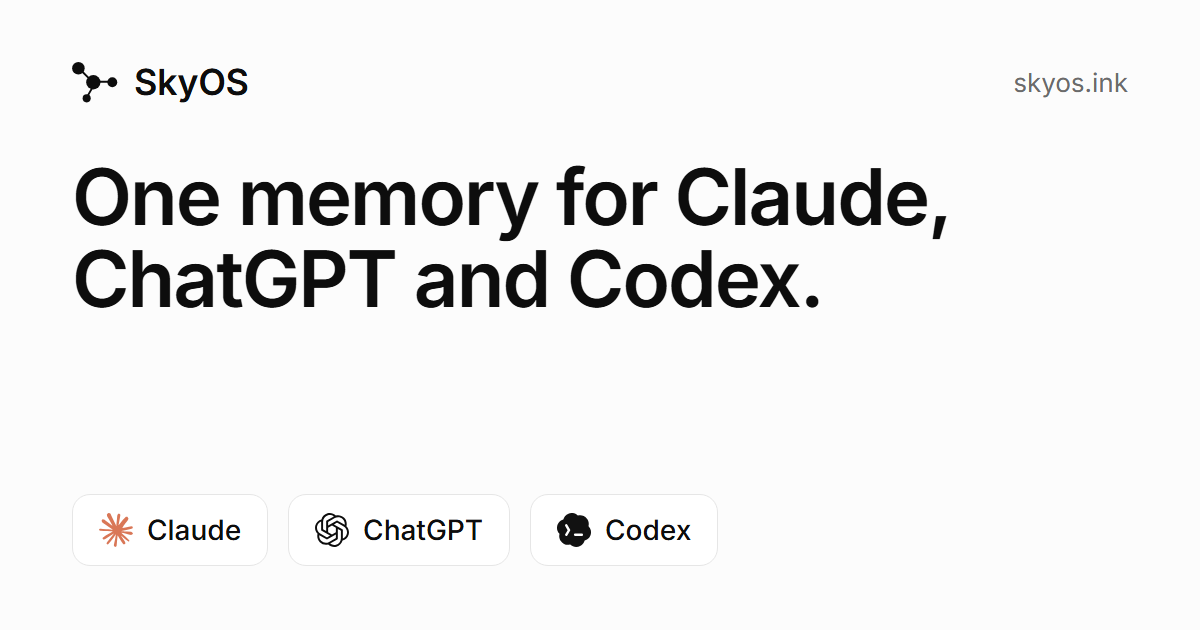
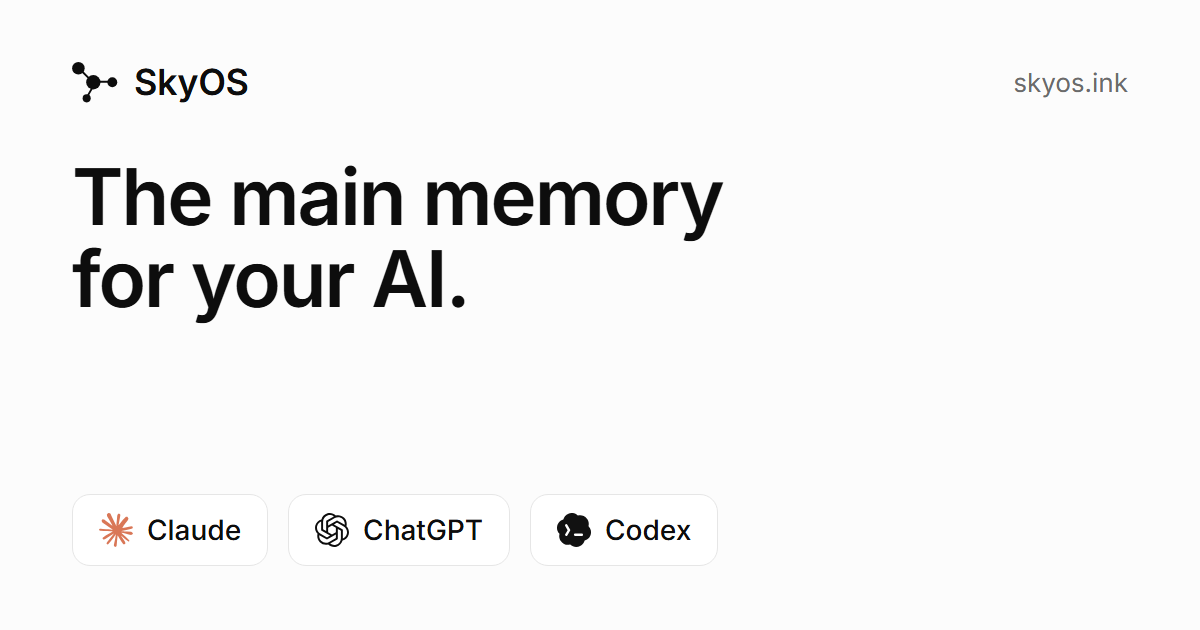
Landing: the main memory for your AI
The pitch was a memory shared between apps, which tells someone who uses
one AI that SkyOS isn't for them. Now it leads with being the main
memory for the AI they use:
- Hero: "The main memory for your AI." / "Each project remembered
  exactly. Start a new chat, say "continue my last chat", and pick up
  where you left off."
- Why cards: projects apart and nothing to manage come first; sharing
  between apps is last, as "Switch apps anytime".
- Title, description, link preview text and image, structured data,
  llms.txt and the footer tagline say the same, keeping the three app
  names for search.

Changed region(s): [[0.0617, 0.2413, 0.8017, 0.3921], [0.0617, 0.3921, 0.6783, 0.5127]]

diff --git a/index.html b/index.html
@@ -3,16 +3,16 @@
 <head>
   <meta charset="utf-8">
   <meta name="viewport" content="width=device-width, initial-scale=1">
-  <title>SkyOS — one memory for Claude, ChatGPT and Codex</title>
-  <meta name="description" content="SkyOS gives Claude, ChatGPT and Codex one memory: exact, dated notes of what you decide, to pick up in any chat. Free during the beta.">
+  <title>SkyOS — the main memory for Claude, ChatGPT or Codex</title>
+  <meta name="description" content="SkyOS is the main memory for Claude, ChatGPT or Codex: exact, dated notes of each project, so a new chat picks up where you left off. Free during the beta.">
   <link rel="canonical" href="https://www.skyos.ink/">
   <!-- Proves to Google Search Console that this site is ours (URL prefix
        https://www.skyos.ink/). Not a secret; keep it, or verification lapses. -->
   <meta name="google-site-verification" content="w3UZVh0ULUTgdRYBIrcAd0iDRdIfkSLIPk4VwpUlotU">
 
   <meta property="og:site_name" content="SkyOS">
-  <meta property="og:title" content="SkyOS — one memory for Claude, ChatGPT and Codex">
-  <meta property="og:description" content="Tell one AI what you decided and the others know it too.">
+  <meta property="og:title" content="SkyOS — the main memory for Claude, ChatGPT or Codex">
+  <meta property="og:description" content="Each project remembered exactly. Start a new chat and pick up where you left off.">
   <meta property="og:type" content="website">
   <meta property="og:url" content="https://www.skyos.ink/">
   <!-- The link preview Reddit, X, Slack and iMessage show. Absolute and on www:
@@ -21,7 +21,7 @@
   <meta property="og:image" content="https://www.skyos.ink/og.png">
   <meta property="og:image:width" content="1200">
   <meta property="og:image:height" content="630">
-  <meta property="og:image:alt" content="SkyOS: one memory for Claude, ChatGPT and Codex.">
+  <meta property="og:image:alt" content="SkyOS: the main memory for your AI. Works with Claude, ChatGPT and Codex.">
   <meta name="twitter:card" content="summary_large_image">
 
   <!-- The same mark as app.skyos.ink. Google's favicon service reads these for
@@ -64,7 +64,7 @@
         "url": "https://www.skyos.ink/",
         "applicationCategory": "ProductivityApplication",
         "operatingSystem": "Web",
-        "description": "One memory for Claude, ChatGPT and Codex. SkyOS turns what you decide in your AI chats into short, dated notes that all three read. Every note is dated, and “next Friday” is saved as the real date; a number or status older than a month is given with its date. To pick up in another chat or app, say “continue my last chat”, or “continue” and the memory’s name.",
+        "description": "The main memory for Claude, ChatGPT or Codex. SkyOS turns what you decide in your AI chats into short, dated notes, kept per project, so a new chat picks up where the last one stopped; if you use more than one of the three, they share the same notes. Every note is dated, and “next Friday” is saved as the real date; a number or status older than a month is given with its date. To pick up in another chat or app, say “continue my last chat”, or “continue” and the memory’s name.",
         "offers": { "@type": "Offer", "price": "0", "priceCurrency": "USD", "description": "Free during the beta, up to 1,000 saved messages a month." },
         "publisher": { "@id": "https://www.skyos.ink/#org" }
       },
@@ -128,8 +128,8 @@
     <div class="container">
       <div class="hero-copy">
         <p data-reveal class="hero-pill">Now in beta</p>
-        <h1 data-reveal style="--reveal-delay: 60ms" class="hero-title">One memory for Claude, ChatGPT and Codex.</h1>
-        <p data-reveal style="--reveal-delay: 120ms" class="hero-lead">Tell ChatGPT what you decided, and Claude and Codex remember it too.</p>
+        <h1 data-reveal style="--reveal-delay: 60ms" class="hero-title">The main memory for your AI.</h1>
+        <p data-reveal style="--reveal-delay: 120ms" class="hero-lead">Each project remembered exactly. Start a new chat, say “continue&nbsp;my&nbsp;last&nbsp;chat”, and pick up where you left off.</p>
         <!-- The Connect page works without an account, so the setup can be
              seen before signing up. -->
         <div data-reveal style="--reveal-delay: 180ms" class="hero-actions">
@@ -276,21 +276,13 @@
   <section class="section">
     <div class="container">
       <div class="section-head"><h2 class="section-title">Why use SkyOS?</h2></div>
-      <!-- Each card shows its point in SkyOS's own pieces: the three apps
-           joined to SkyOS, a memory chip per project, and a note rewritten
-           when the user changes their mind. Drawn light: no grey panels, no
-           box inside a box, no bold. The pictures are decoration; the words
-           carry the meaning. -->
+      <!-- Each card shows its point in SkyOS's own pieces: a memory chip per
+           project, a note rewritten when the user changes their mind, and the
+           three apps joined to SkyOS. Sharing between apps comes last: the
+           pitch is the main memory for the one AI a person uses. Drawn light:
+           no grey panels, no box inside a box, no bold. The pictures are
+           decoration; the words carry the meaning. -->
       <div class="why">
-        <article class="why-card">
-          <div class="why-visual why-visual-hub" aria-hidden="true">
-            <div class="hub-apps"><span class="hub-app"><svg class="logo logo-claude" width="24" height="24"><use href="#i-claude"/></svg></span><span class="hub-app"><svg class="logo logo-chatgpt" width="24" height="24"><use href="#i-chatgpt"/></svg></span><span class="hub-app"><svg class="logo logo-codex" width="24" height="24"><use href="#i-codex"/></svg></span></div>
-            <span class="hub-join"></span>
-            <span class="hub-core"><svg class="brand-mark" width="38" height="34"><use href="#i-mark"/></svg></span>
-          </div>
-          <h3 class="why-claim">One memory, every app</h3>
-          <p class="why-text">Claude, ChatGPT and Codex read the same notes.</p>
-        </article>
         <article class="why-card">
           <div class="why-visual why-visual-chips" aria-hidden="true">
             <span class="mini-chip is-current">Northwind pricing</span>
@@ -307,6 +299,15 @@
           </div>
           <h3 class="why-claim">Nothing to manage</h3>
           <p class="why-text">No “remember this”. Change your mind, and the note is rewritten.</p>
+        </article>
+        <article class="why-card">
+          <div class="why-visual why-visual-hub" aria-hidden="true">
+            <div class="hub-apps"><span class="hub-app"><svg class="logo logo-claude" width="24" height="24"><use href="#i-claude"/></svg></span><span class="hub-app"><svg class="logo logo-chatgpt" width="24" height="24"><use href="#i-chatgpt"/></svg></span><span class="hub-app"><svg class="logo logo-codex" width="24" height="24"><use href="#i-codex"/></svg></span></div>
+            <span class="hub-join"></span>
+            <span class="hub-core"><svg class="brand-mark" width="38" height="34"><use href="#i-mark"/></svg></span>
+          </div>
+          <h3 class="why-claim">Switch apps anytime</h3>
+          <p class="why-text">Claude, ChatGPT and Codex read the same notes.</p>
         </article>
       </div>
     </div>
@@ -394,7 +395,7 @@
           <svg class="brand-mark" width="27" height="24" aria-hidden="true"><use href="#i-mark"/></svg>
           <span class="wordmark">SkyOS</span>
         </a>
-        <p class="footer-tagline">One memory for Claude, ChatGPT and Codex.</p>
+        <p class="footer-tagline">The main memory for your AI.</p>
       </div>
       <nav class="footer-cols" aria-label="More">
         <div class="footer-col">

diff --git a/scripts/og.html b/scripts/og.html
@@ -39,6 +39,7 @@
     font-weight: 600;
     line-height: 1.05;
     letter-spacing: -0.025em;
+    text-wrap: balance;
   }
 
   .tools { display: flex; gap: 20px; margin-top: auto; }
@@ -66,7 +67,7 @@
     <div class="url">skyos.ink</div>
   </div>
 
-  <h1>One memory for Claude, ChatGPT and Codex.</h1>
+  <h1>The main memory for your AI.</h1>
 
   <div class="tools">
     <div class="tool"><svg viewBox="0 0 256 257" fill="#D97757"><path d="m50.228 170.321 50.357-28.257.843-2.463-.843-1.361h-2.462l-8.426-.518-28.775-.778-24.952-1.037-24.175-1.296-6.092-1.297L0 125.796l.583-3.759 5.12-3.434 7.324.648 16.202 1.101 24.304 1.685 17.629 1.037 26.118 2.722h4.148l.583-1.685-1.426-1.037-1.101-1.037-25.147-17.045-27.22-18.017-14.258-10.37-7.713-5.25-3.888-4.925-1.685-10.758 7-7.713 9.397.649 2.398.648 9.527 7.323 20.35 15.75L94.817 91.9l3.889 3.24 1.555-1.102.195-.777-1.75-2.917-14.453-26.118-15.425-26.572-6.87-11.018-1.814-6.61c-.648-2.723-1.102-4.991-1.102-7.778l7.972-10.823L71.42 0 82.05 1.426l4.472 3.888 6.61 15.101 10.694 23.786 16.591 32.34 4.861 9.592 2.592 8.879.973 2.722h1.685v-1.556l1.36-18.211 2.528-22.36 2.463-28.776.843-8.1 4.018-9.722 7.971-5.25 6.222 2.981 5.12 7.324-.713 4.73-3.046 19.768-5.962 30.98-3.889 20.739h2.268l2.593-2.593 10.499-13.934 17.628-22.036 7.778-8.749 9.073-9.657 5.833-4.601h11.018l8.1 12.055-3.628 12.443-11.342 14.388-9.398 12.184-13.48 18.147-8.426 14.518.778 1.166 2.01-.194 30.46-6.481 16.462-2.982 19.637-3.37 8.88 4.148.971 4.213-3.5 8.62-20.998 5.184-24.628 4.926-36.682 8.685-.454.324.519.648 16.526 1.555 7.065.389h17.304l32.21 2.398 8.426 5.574 5.055 6.805-.843 5.184-12.962 6.611-17.498-4.148-40.83-9.721-14-3.5h-1.944v1.167l11.666 11.406 21.387 19.314 26.767 24.887 1.36 6.157-3.434 4.86-3.63-.518-23.526-17.693-9.073-7.972-20.545-17.304h-1.36v1.814l4.73 6.935 25.017 37.59 1.296 11.536-1.814 3.76-6.481 2.268-7.13-1.297-14.647-20.544-15.1-23.138-12.185-20.739-1.49.843-7.194 77.448-3.37 3.953-7.778 2.981-6.48-4.925-3.436-7.972 3.435-15.749 4.148-20.544 3.37-16.333 3.046-20.285 1.815-6.74-.13-.454-1.49.194-15.295 20.999-23.267 31.433-18.406 19.702-4.407 1.75-7.648-3.954.713-7.064 4.277-6.286 25.47-32.405 15.36-20.092 9.917-11.6-.065-1.686h-.583L44.07 198.125l-12.055 1.555-5.185-4.86.648-7.972 2.463-2.593 20.35-13.999-.064.065Z"/></svg>Claude</div>

diff --git a/privacy.html b/privacy.html
@@ -137,7 +137,7 @@
           <svg class="brand-mark" width="27" height="24" aria-hidden="true"><use href="#i-mark"/></svg>
           <span class="wordmark">SkyOS</span>
         </a>
-        <p class="footer-tagline">One memory for Claude, ChatGPT and Codex.</p>
+        <p class="footer-tagline">The main memory for your AI.</p>
       </div>
       <nav class="footer-cols" aria-label="More">
         <div class="footer-col">

diff --git a/terms.html b/terms.html
@@ -99,7 +99,7 @@
           <svg class="brand-mark" width="27" height="24" aria-hidden="true"><use href="#i-mark"/></svg>
           <span class="wordmark">SkyOS</span>
         </a>
-        <p class="footer-tagline">One memory for Claude, ChatGPT and Codex.</p>
+        <p class="footer-tagline">The main memory for your AI.</p>
       </div>
       <nav class="footer-cols" aria-label="More">
         <div class="footer-col">
